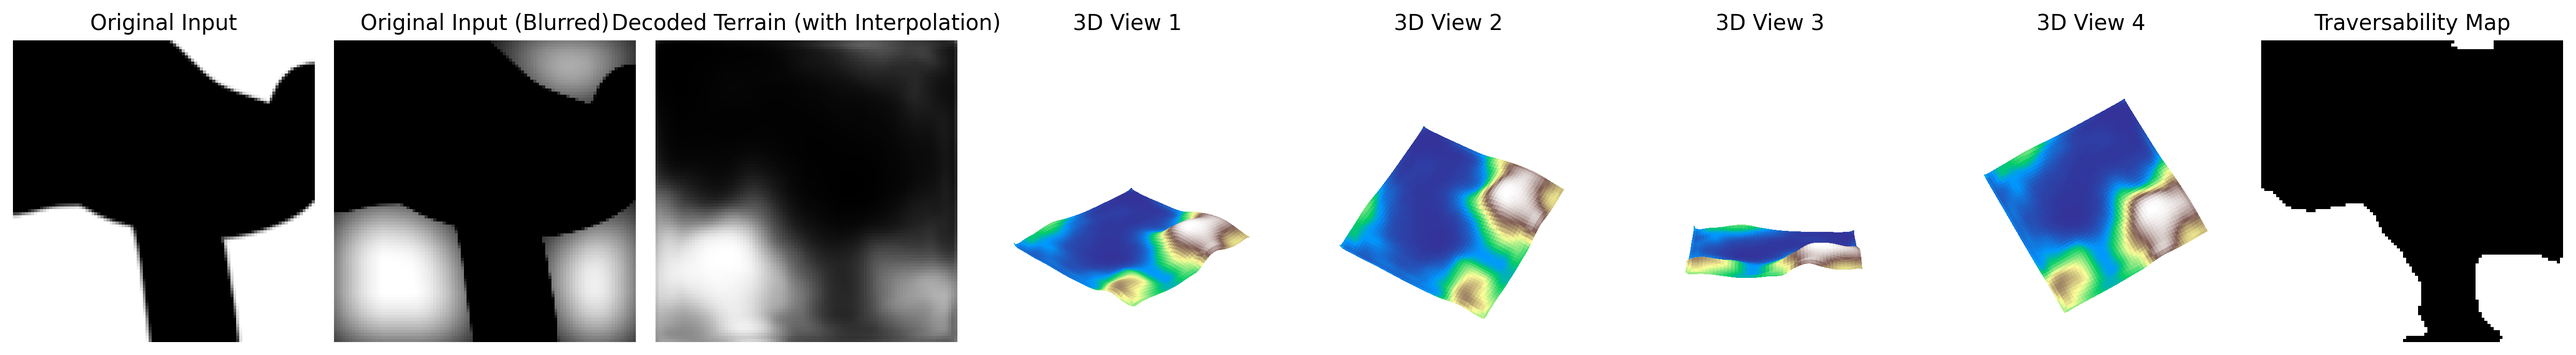
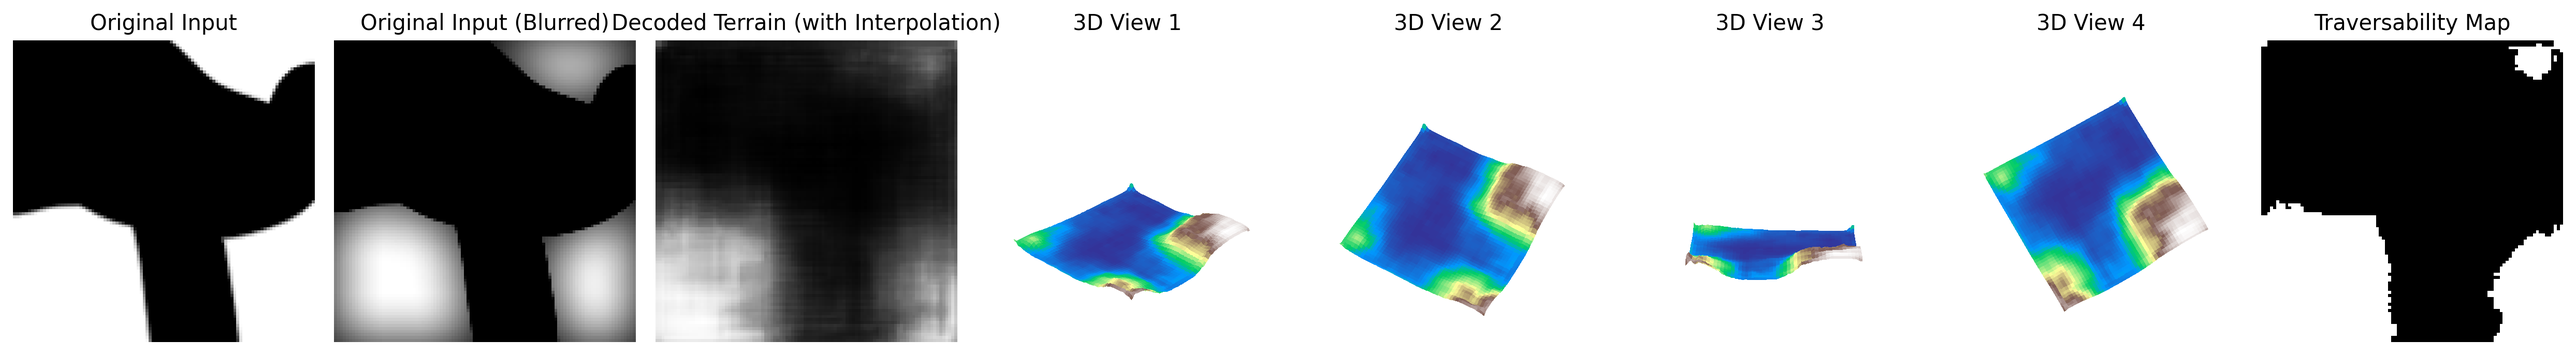
better move to turing script; use new weights. model might be too good at reconstruction so I'll need to lower z

diff --git a/usage.py b/usage.py
@@ -3,8 +3,8 @@ import torch.nn.functional as F
 import matplotlib.pyplot as plt
 from mpl_toolkits.mplot3d import Axes3D
 import numpy as np
-from main import CVAE
-from main import hpcfg
+from main_slurm import CVAE
+from main_slurm import hpcfg
 from PIL import Image
 import os
 from math import tan, radians
@@ -38,8 +38,8 @@ device = torch.device("cuda")
 
 # Load model and checkpoints
 model = CVAE().to(device)
-checkpoint = torch.load("checkpoints/vae_cnn.pt", map_location=device)
-model.load_state_dict(checkpoint["model_state_dict"])
+checkpoint = torch.load("fully_trained/checkpoints/vae_cnn_classic.pt", map_location=device)
+model.load_state_dict(checkpoint["model_state_dict"], strict=False)
 model.eval()
 
 # Load one input image from inputs/
@@ -67,6 +67,7 @@ sigma = 1.5
 
 x_blur = gaussian_blur(x.cpu(), BLUR_SIZE, sigma)
 recon_t = recon.unsqueeze(0).unsqueeze(0).cpu()
+recon_t = F.interpolate(recon_t, size=(hpcfg.img_size, hpcfg.img_size), mode='bilinear', align_corners=False)
 
 # Interpolate between blurred input and reconstruction
 recon_mix = torch.lerp(x_blur, recon_t, 0.95).squeeze().cpu().numpy()
